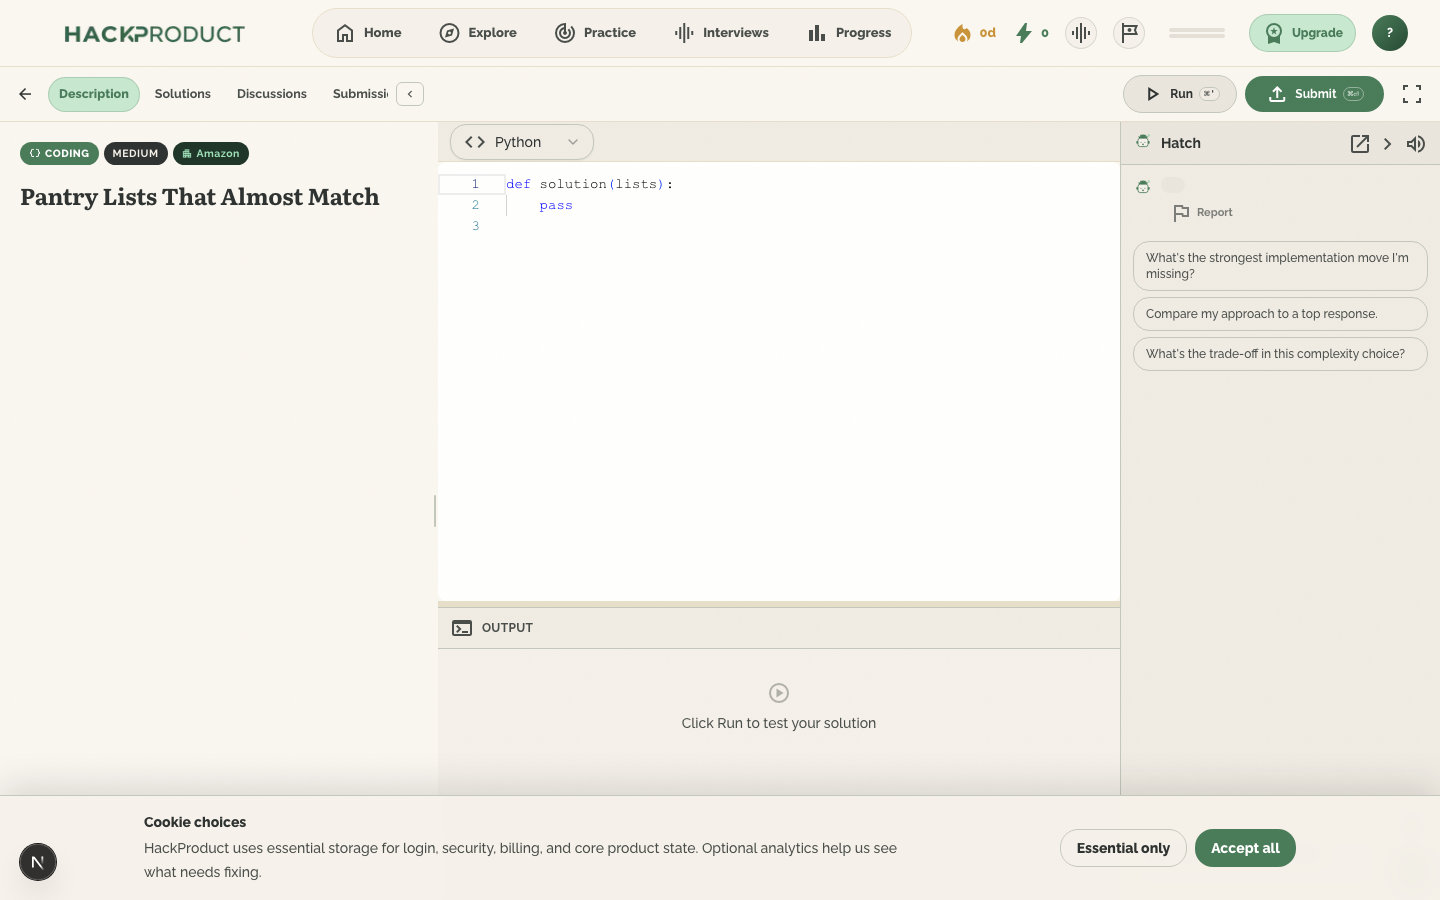
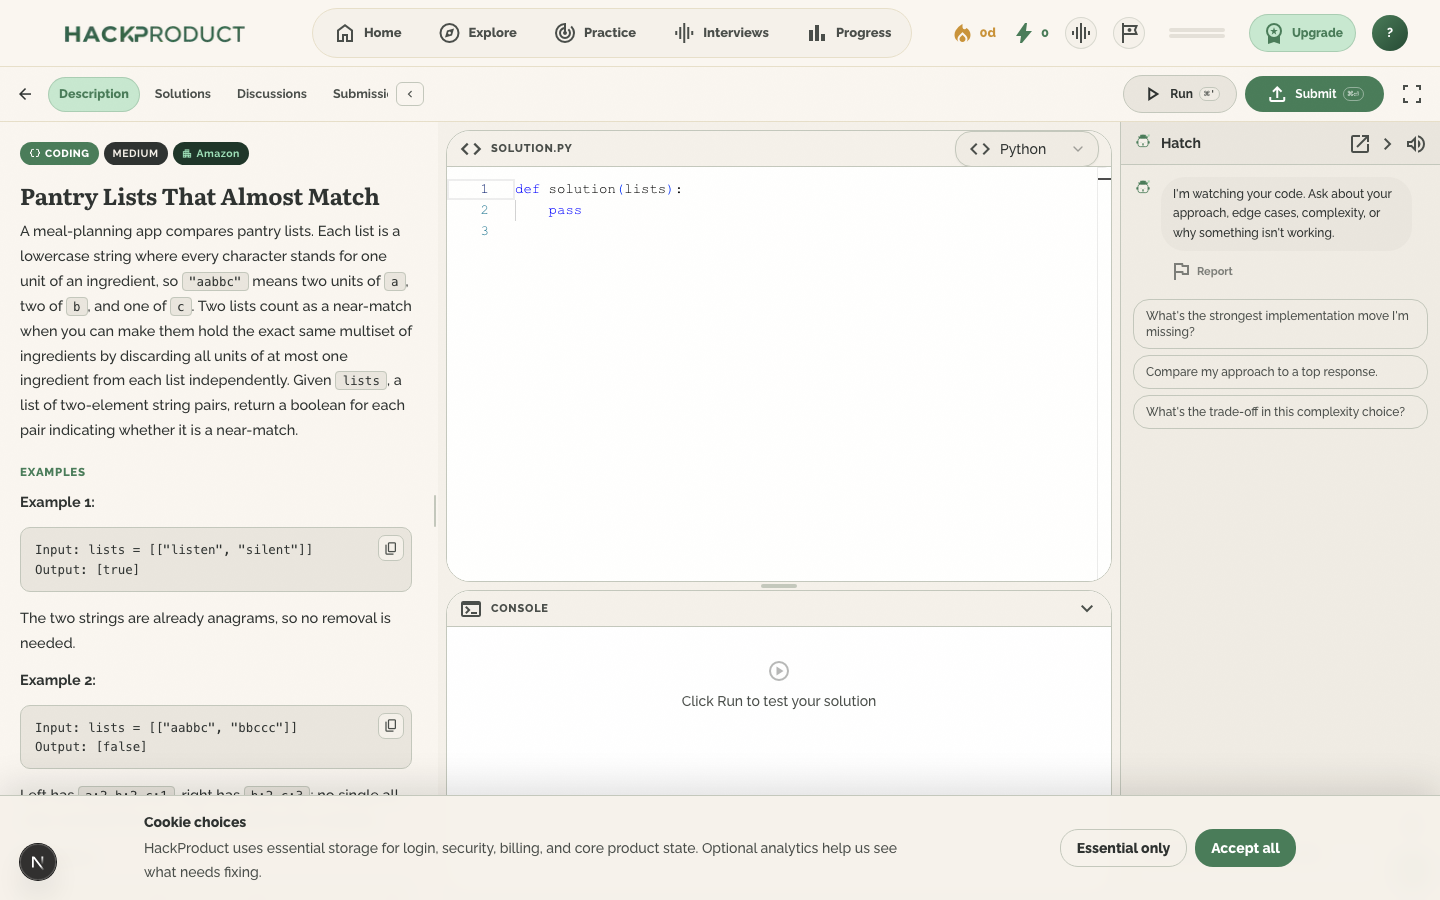
feat(workspace): frame editor + console as floating titled panels
The coding workspace's editor column becomes two WorkspacePanel cards on a
surface-container-low canvas: the editor card carries a filename-style
title (solution.py / query.sql), the Part chip, and the language selector
in its header (the old 40px toolbar is gone); the console card gets a
Console header with a collapse chevron (header-only when collapsed, editor
takes the space) and the 6px hairline divider becomes a centered grip
gutter. CodeOutputPanel gains collapsed/onToggleCollapse props.

Visual-clarity overhaul, increment 4. Verified: bar-shot spec end-to-end
green (screenshot in docs/notes/adaptive-ui/), tsc clean.

diff --git a/src/components/v2/FlowWorkspace.tsx b/src/components/v2/FlowWorkspace.tsx
@@ -47,6 +47,7 @@ import { CodingFeedback } from '@/components/challenge/CodingFeedback'
 import { useCodeRunner } from '@/hooks/useCodeRunner'
 import { AppBreadcrumbs } from '@/components/navigation/AppBreadcrumbs'
 import { workspaceExitHref } from '@/lib/workspace/breadcrumbs'
+import { WorkspacePanel } from '@/components/v2/WorkspacePanel'
 import { useHatchSonics } from '@/hooks/useHatchSonics'
 import { useIsMobile } from '@/hooks/useIsMobile'
 import type { SupportedLanguage, RunResult, GradingFeedback } from '@/lib/coding/types'
@@ -564,6 +565,8 @@ export function FlowWorkspace(props: FlowWorkspaceProps) {
   const [canvasMaximised, setCanvasMaximised] = useState(false)
   const [canvasLoopExpanded, setCanvasLoopExpanded] = useState(false)
   const [codingMaximised, setCodingMaximised] = useState(false)
+  // Console collapse (visual-clarity inc. 4): header-only console, editor takes the space.
+  const [consoleCollapsed, setConsoleCollapsed] = useState(false)
   const [editorHeightPct, setEditorHeightPct] = useState(60)
   const [chatPanelOpen, setChatPanelOpen] = useState(false)
   const [queuedHatchPrompt, setQueuedHatchPrompt] = useState<QueuedHatchPrompt | null>(null)
@@ -5132,28 +5135,34 @@ export function FlowWorkspace(props: FlowWorkspaceProps) {
                   Exit full screen
                 </button>
               )}
-              {/* Editor column: toolbar + Monaco + resizable output panel */}
-              <div style={{ flex: 1, display: 'flex', flexDirection: 'column', minWidth: 0, minHeight: 0 }}>
-                {/* Toolbar: language selector + run + submit */}
-                <div style={{
-                  height: 40,
-                  flexShrink: 0,
-                  display: 'flex',
-                  alignItems: 'center',
-                  gap: 8,
-                  padding: '0 12px',
-                  borderBottom: '1px solid var(--color-outline-faint)',
-                  background: 'var(--color-surface-container)',
-                }}>
-                  {/* Language selector */}
-                  {(() => {
+              {/* Editor column: framed panels — editor card + grip gutter + console card
+                  floating on the workspace canvas (visual-clarity inc. 4) */}
+              <div
+                ref={codingPaneRef}
+                style={{
+                  flex: 1, display: 'flex', flexDirection: 'column', minWidth: 0, minHeight: 0,
+                  gap: 8, padding: 8, background: 'var(--color-surface-container-low)',
+                }}
+              >
+                <WorkspacePanel
+                  icon="code"
+                  title={(() => {
+                    const names: Record<string, string> = {
+                      python: 'solution.py', javascript: 'solution.js', java: 'Solution.java',
+                      cpp: 'solution.cpp', go: 'solution.go', sql: 'query.sql',
+                    }
+                    return names[currentLanguage] ?? 'solution'
+                  })()}
+                  headerExtra={codingParts.length > 0 && activePartId ? (
+                    <span style={{ fontFamily: 'var(--font-label)', fontSize: 11, fontWeight: 600, color: 'var(--color-on-surface-variant)', padding: '2px 8px', borderRadius: 999, background: 'var(--color-surface-container)', border: '1px solid var(--color-outline-variant)', whiteSpace: 'nowrap' }}>
+                      {(() => { const cp = codingParts.find(x => x.id === activePartId); return cp ? `Part ${cp.sequence}` : '' })()}
+                    </span>
+                  ) : undefined}
+                  actions={(() => {
                     const metadata = (isApiMode ? detail?.challenge?.metadata : null) as { supported_languages?: string[] } | null | undefined
                     const metaLangs = (metadata?.supported_languages ?? []) as SupportedLanguage[]
                     // Guard the option list by challenge type so the wrong language
-                    // can't appear regardless of (often empty) metadata: SQL
-                    // challenges only offer SQL; algorithm challenges never offer
-                    // SQL. Falls back to a sensible per-type default when metadata
-                    // is missing, instead of showing all six languages.
+                    // can't appear regardless of (often empty) metadata.
                     const NON_SQL_DEFAULTS: SupportedLanguage[] = ['python', 'javascript', 'java', 'cpp', 'go']
                     let supportedLangs: SupportedLanguage[]
                     if (apiChallengeType === 'sql') {
@@ -5173,19 +5182,9 @@ export function FlowWorkspace(props: FlowWorkspaceProps) {
                       />
                     )
                   })()}
-                  {/* Active part label (multi-part only) */}
-                  {codingParts.length > 0 && activePartId && (
-                    <span style={{ fontFamily: 'var(--font-label)', fontSize: 11, fontWeight: 600, color: 'var(--color-on-surface-variant)', padding: '2px 8px', borderRadius: 999, background: 'var(--color-surface-container-low)', border: '1px solid var(--color-outline-variant)' }}>
-                      {(() => { const p = codingParts.find(cp => cp.id === activePartId); return p ? `Part ${p.sequence}` : '' })()}
-                    </span>
-                  )}
-                  <div style={{ flex: 1 }} />
-                </div>
-
-                {/* Monaco editor + draggable divider + output panel (default 60/40, user-resizable) */}
-                <div ref={codingPaneRef} style={{ flex: 1, display: 'flex', flexDirection: 'column', minHeight: 0 }}>
-                  {/* Editor */}
-                  <div style={{ flex: `${editorHeightPct} 1 0`, minHeight: 0 }} data-testid="monaco-editor-container">
+                  style={{ flex: consoleCollapsed ? '1 1 0' : `${editorHeightPct} 1 0` }}
+                >
+                  <div style={{ flex: 1, minHeight: 0 }} data-testid="monaco-editor-container">
                     <MonacoCodeEditor
                       value={currentCode}
                       onChange={setCurrentCode}
@@ -5195,32 +5194,35 @@ export function FlowWorkspace(props: FlowWorkspaceProps) {
                       readOnly={isSubmittingCoding}
                     />
                   </div>
-                  {/* Draggable divider */}
+                </WorkspacePanel>
+                {/* Grip gutter — resizes editor/console */}
+                {!consoleCollapsed && (
                   <div
                     onMouseDown={handleCodingDividerMouseDown}
                     role="separator"
                     aria-orientation="horizontal"
-                    aria-label="Resize editor and output panel"
+                    aria-label="Resize editor and console"
                     style={{
-                      height: 6,
-                      cursor: 'ns-resize',
-                      flexShrink: 0,
-                      background: 'var(--color-outline-faint)',
-                      transition: 'background-color 120ms',
-                      position: 'relative',
+                      height: 8, margin: '-8px 0', cursor: 'ns-resize', flexShrink: 0, zIndex: 5,
+                      display: 'flex', alignItems: 'center', justifyContent: 'center',
                     }}
-                    onMouseEnter={(e) => { (e.currentTarget as HTMLDivElement).style.background = 'var(--color-outline-variant)' }}
-                    onMouseLeave={(e) => { (e.currentTarget as HTMLDivElement).style.background = 'var(--color-outline-faint)' }}
-                  />
-                  {/* Output panel */}
-                  <div style={{ flex: `${100 - editorHeightPct} 1 0`, minHeight: 0 }}>
-                    <CodeOutputPanel
-                      results={lastRunResult}
-                      status={outputPanelStatus}
-                      isSqlMode={currentLanguage === 'sql'}
-                      errorMessage={outputPanelError}
-                    />
+                  >
+                    <div style={{ width: 36, height: 4, borderRadius: 999, background: 'var(--color-outline-variant)', transition: 'background 120ms' }} />
                   </div>
+                )}
+                {/* Console card */}
+                <div
+                  className="rounded-xl border border-outline-variant overflow-hidden flex flex-col"
+                  style={consoleCollapsed ? { flex: '0 0 auto' } : { flex: `${100 - editorHeightPct} 1 0`, minHeight: 0 }}
+                >
+                  <CodeOutputPanel
+                    results={lastRunResult}
+                    status={outputPanelStatus}
+                    isSqlMode={currentLanguage === 'sql'}
+                    errorMessage={outputPanelError}
+                    collapsed={consoleCollapsed}
+                    onToggleCollapse={() => setConsoleCollapsed(v => !v)}
+                  />
                 </div>
               </div>
 

diff --git a/src/components/challenge/CodeOutputPanel.tsx b/src/components/challenge/CodeOutputPanel.tsx
@@ -8,6 +8,9 @@ interface CodeOutputPanelProps {
   status: 'idle' | 'running' | 'done' | 'error'
   isSqlMode?: boolean
   errorMessage?: string
+  /** Console collapse (visual-clarity overhaul): header stays, body hides. */
+  collapsed?: boolean
+  onToggleCollapse?: () => void
 }
 
 // Render a table of SQL rows
@@ -387,6 +390,8 @@ export function CodeOutputPanel({
   status,
   isSqlMode = false,
   errorMessage,
+  collapsed = false,
+  onToggleCollapse,
 }: CodeOutputPanelProps) {
   const isRunning = status === 'running'
   const isIdle = status === 'idle'
@@ -394,31 +399,47 @@ export function CodeOutputPanel({
 
   return (
     <div
-      className="flex flex-col h-full bg-surface-container-low border-t border-outline-variant overflow-hidden"
+      className="flex flex-col h-full bg-surface-container-lowest overflow-hidden"
       data-testid="output-panel"
     >
       {/* Header */}
-      <div className="flex items-center gap-2 px-3 py-2 bg-surface-container border-b border-outline-variant flex-shrink-0">
-        <span className="material-symbols-outlined text-[16px] text-on-surface-variant">
+      <div className={`flex items-center gap-2 px-3 h-9 bg-surface-container-low ${collapsed ? '' : 'border-b border-outline-variant'} flex-shrink-0`}>
+        <span className="material-symbols-outlined text-[15px] text-on-surface-variant">
           terminal
         </span>
-        <span className="text-xs font-label font-semibold text-on-surface-variant uppercase tracking-wide">
-          Output
+        <span className="text-[11px] font-label font-bold text-on-surface-variant uppercase tracking-[0.07em]">
+          Console
         </span>
-        {results && !isRunning && (
-          <span
-            className={`ml-auto text-xs font-label font-semibold ${
-              results.testsPassed === results.testsTotal
-                ? 'text-primary'
-                : 'text-error'
-            }`}
-          >
-            {results.testsPassed} / {results.testsTotal} passed
-          </span>
-        )}
+        <span className="ml-auto flex items-center gap-2">
+          {results && !isRunning && (
+            <span
+              className={`text-xs font-label font-semibold ${
+                results.testsPassed === results.testsTotal
+                  ? 'text-primary'
+                  : 'text-error'
+              }`}
+            >
+              {results.testsPassed} / {results.testsTotal} passed
+            </span>
+          )}
+          {onToggleCollapse && (
+            <button
+              onClick={onToggleCollapse}
+              className="inline-flex items-center justify-center w-6 h-6 rounded text-on-surface-variant hover:text-on-surface hover:bg-surface-container-high transition-colors"
+              title={collapsed ? 'Expand console' : 'Collapse console'}
+              aria-label={collapsed ? 'Expand console' : 'Collapse console'}
+              data-testid="console-collapse-button"
+            >
+              <span className="material-symbols-outlined text-[18px]">
+                {collapsed ? 'expand_less' : 'expand_more'}
+              </span>
+            </button>
+          )}
+        </span>
       </div>
 
       {/* Content */}
+      {!collapsed && (
       <div className="flex-1 overflow-y-auto">
         {/* Running state */}
         {isRunning && <RunningIndicator />}
@@ -473,6 +494,7 @@ export function CodeOutputPanel({
           </div>
         )}
       </div>
+      )}
     </div>
   )
 }

diff --git a/src/components/v2/WorkspacePanel.tsx b/src/components/v2/WorkspacePanel.tsx
@@ -1,6 +1,6 @@
 'use client'
 
-import type { ReactNode } from 'react'
+import type { CSSProperties, ReactNode } from 'react'
 
 /**
  * The shared workspace panel primitive (visual-clarity overhaul).
@@ -25,6 +25,8 @@ interface WorkspacePanelProps {
   headerExtra?: ReactNode
   /** Applied to the outer card. */
   className?: string
+  /** Inline sizing (flex weights in resizable splits). */
+  style?: CSSProperties
   /** Applied to the body wrapper (defaults to flex-1 min-h-0 overflow-hidden). */
   bodyClassName?: string
   children: ReactNode
@@ -36,6 +38,7 @@ export function WorkspacePanel({
   actions,
   headerExtra,
   className = '',
+  style,
   bodyClassName = '',
   children,
 }: WorkspacePanelProps) {
@@ -43,6 +46,7 @@ export function WorkspacePanel({
   return (
     <div
       className={`rounded-xl border border-outline-variant bg-surface-container-lowest overflow-hidden flex flex-col min-h-0 ${className}`}
+      style={style}
     >
       {hasHeader && (
         <div className="h-9 shrink-0 px-3 flex items-center gap-2 border-b border-outline-variant bg-surface-container-low">

diff --git a/docs/notes/overnight-adaptive-2026-07-04.md b/docs/notes/overnight-adaptive-2026-07-04.md
@@ -60,6 +60,8 @@ Not fixed (noted): the 2 legacy `user_notes` rows keep NULL embeddings (trivial 
 
 ## Checkpoint
 
+- **Visual-clarity overhaul in progress** (user-approved plan in ~/.claude/plans/greedy-exploring-papert.md): inc.1 token fixes (45a7d795), inc.2 WorkspacePanel primitive (749687ef), inc.3 slim workspace bar (c7cf3a81 — bar shot at docs/notes/adaptive-ui/workspace-bar-coding-1440.png). Known pre-existing failures: coding spec T21/T22/T26 (multi-part fixture) fail on pre-change tree too. Dev-server gotcha tonight: repeated bg spawns stack next-server processes → memory-threshold restarts; pkill next-server before restarting. Remaining: inc.4 editor/console framing, inc.5 algorithm testcase tabs, inc.6 FLOW panels, inc.7 canvas alignment, inc.8 CC analytics panels, inc.9 visual sweep.
+
 - **Iteration 16** (G3, committed c42d478d, SUN-253 → Done): canvas on the contract — register in the panel base body + canvas register hint in interpret (open = one conflicting stakeholder constraint once design settles), canvas-coach skill updated, stricter open readiness bar (strictHold) with honest meter copy. Suite green (404 node). Next: G4 (SUN-254 live interviews) — the final increment.
 - **Iteration 15** (G2, committed 35053434, SUN-252 → Done): coding/SQL on the contract — shared /api/adaptive/guidance endpoint, run results drive the machine, register threads to the coding coach (panel body + interpret builder + skill), open learners get the Solutions comparison pointer on clean solves. Suites green (serial CC E2E timeouts are infra timing; each test green in isolation); zero lingering sessions. Next: G3 (SUN-253 canvas).
 - **Iteration 14** (G1, committed fdcc20e2, SUN-251 → Done): FLOW stepper on the adaptation contract — step API returns register, scaffolded auto-opens hints, per-question verdicts drive the machine (new verdictFromScore), register history persists into the completion insight. E2E green against real step API; suite green (403 node). Next: G2 (SUN-252 coding/SQL).
